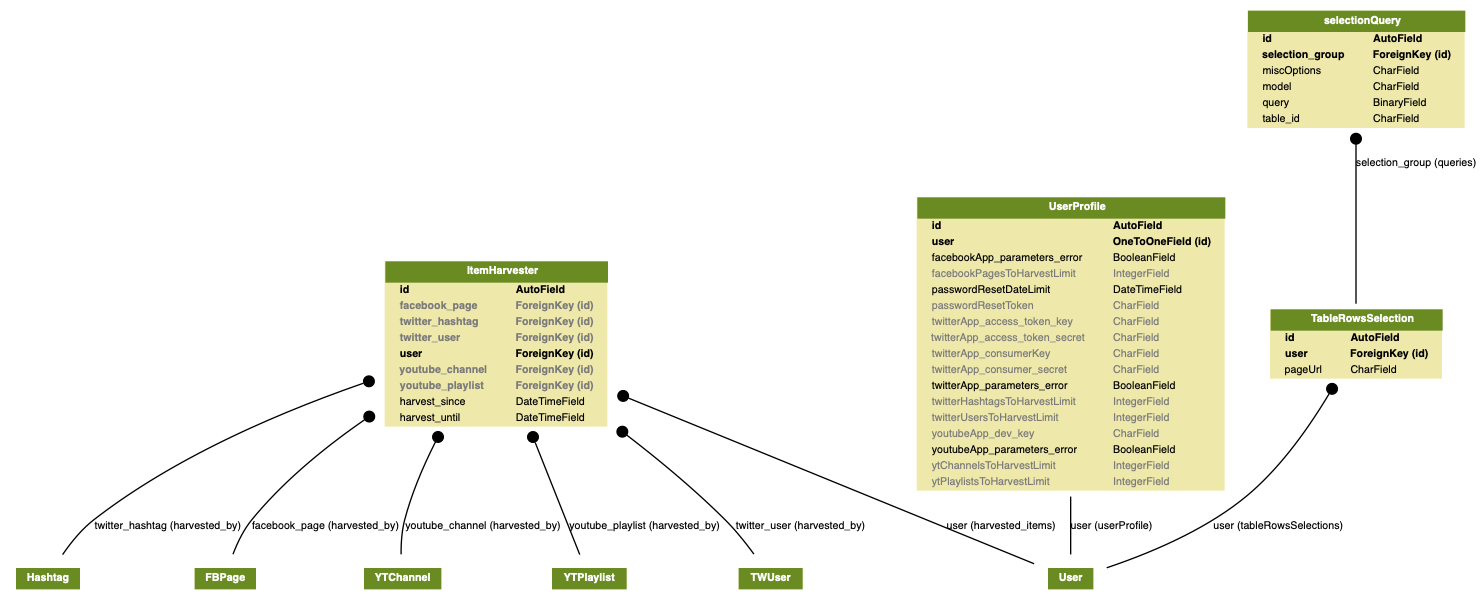
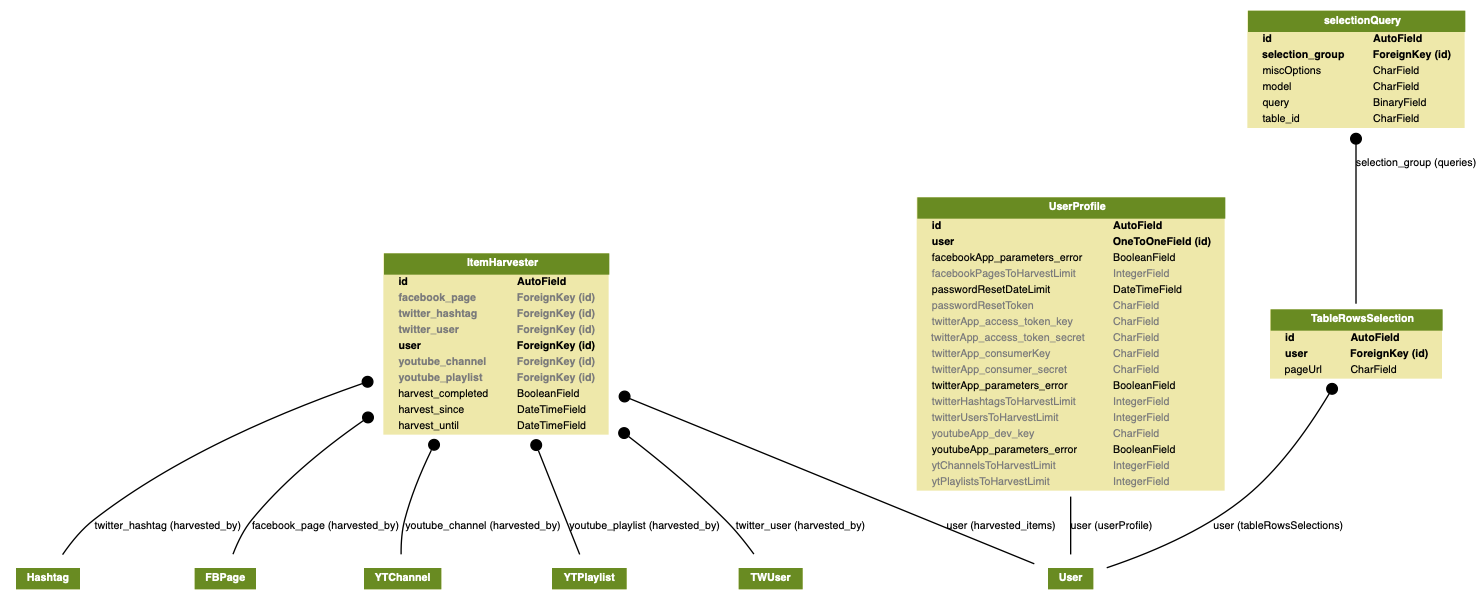
Fixed all bugs related to ItemHarvester structure

Changed region(s): [[0.2483, 0.4062, 0.4345, 0.75]]

diff --git a/SocialNetworkHarvester/tool/templates/tool/tables/twitterHashtagTable.html b/SocialNetworkHarvester/tool/templates/tool/tables/twitterHashtagTable.html
@@ -438,7 +438,7 @@
         var srcs = [
           {
             modelName: 'Collection',
-            attr: 'collection_items',
+            attr: 'items_twitter_hashtags',
             id: '{{ collection.pk }}',
           },
         ];
@@ -447,7 +447,7 @@
             'colStr': 'Terme',
             'fields': ['twitter_hashtag__term', 'twitter_hashtag__getLink'],
             'render': function (data, type, row) {
-              if (row['twitter_hashtag__term'] == null) {
+              if (!row['twitter_hashtag__term']) {
                 return undefinedTag();
               } else {
                 return tableToolLink(row['twitter_hashtag__getLink'],

diff --git a/SocialNetworkHarvester/AspiraUser/migrations/0008_auto_20181027_2030.py b/SocialNetworkHarvester/AspiraUser/migrations/0008_auto_20181027_2030.py
@@ -1,0 +1,30 @@
+# Generated by Django 2.1.1 on 2018-10-27 20:30
+
+import datetime
+from django.db import migrations, models
+from django.utils.timezone import utc
+
+
+class Migration(migrations.Migration):
+
+    dependencies = [
+        ('AspiraUser', '0007_auto_20181023_2219'),
+    ]
+
+    operations = [
+        migrations.AddField(
+            model_name='itemharvester',
+            name='harvest_completed',
+            field=models.BooleanField(default=False),
+        ),
+        migrations.AlterField(
+            model_name='itemharvester',
+            name='harvest_since',
+            field=models.DateTimeField(default=datetime.datetime(2018, 9, 27, 0, 0, tzinfo=utc)),
+        ),
+        migrations.AlterField(
+            model_name='itemharvester',
+            name='harvest_until',
+            field=models.DateTimeField(default=datetime.datetime(2018, 10, 27, 0, 0, tzinfo=utc)),
+        ),
+    ]

diff --git a/SocialNetworkHarvester/AspiraUser/migrations/0009_auto_20181027_2031.py b/SocialNetworkHarvester/AspiraUser/migrations/0009_auto_20181027_2031.py
@@ -1,0 +1,23 @@
+# Generated by Django 2.1.1 on 2018-10-27 20:31
+
+from django.db import migrations, models
+
+
+class Migration(migrations.Migration):
+
+    dependencies = [
+        ('AspiraUser', '0008_auto_20181027_2030'),
+    ]
+
+    operations = [
+        migrations.AlterField(
+            model_name='itemharvester',
+            name='harvest_since',
+            field=models.DateTimeField(),
+        ),
+        migrations.AlterField(
+            model_name='itemharvester',
+            name='harvest_until',
+            field=models.DateTimeField(),
+        ),
+    ]

diff --git a/SocialNetworkHarvester/AspiraUser/models/ItemHarvester.py b/SocialNetworkHarvester/AspiraUser/models/ItemHarvester.py
@@ -44,11 +44,10 @@ class ItemHarvester(models.Model):
         **nullable,
         on_delete=models.PROTECT
     )
-    harvest_since = models.DateTimeField(
-        default=x_days_ago(30)
-    )
-    harvest_until = models.DateTimeField(
-        default=today()
+    harvest_since = models.DateTimeField()
+    harvest_until = models.DateTimeField()
+    harvest_completed = models.BooleanField(
+        default=False
     )
 
     def harvest_since_str(self):

diff --git a/SocialNetworkHarvester/Collection/models/Collection.py b/SocialNetworkHarvester/Collection/models/Collection.py
@@ -40,9 +40,7 @@ class Collection(models.Model):
     def items_twitter_users(self):
         return self.collection_items.filter(twitter_user__isnull=False)
 
-    def items_hashtag_harvesters(self):
-        items = self.collection_items.filter(twitter_hashtag__isnull=False)
-        return items
+    def items_twitter_hashtags(self):
         return self.collection_items.filter(twitter_hashtag__isnull=False)
 
     def items_facebook_pages(self):

diff --git a/SocialNetworkHarvester/SocialNetworkHarvester/settings.py b/SocialNetworkHarvester/SocialNetworkHarvester/settings.py
@@ -54,7 +54,7 @@ INSTALLED_APPS = [
 
 # Applications in which there is an 'harvest' module
 HARVEST_APPS = [
-    'Facebook',
+    #'Facebook',
     'Twitter',
     'Youtube',
 ]
